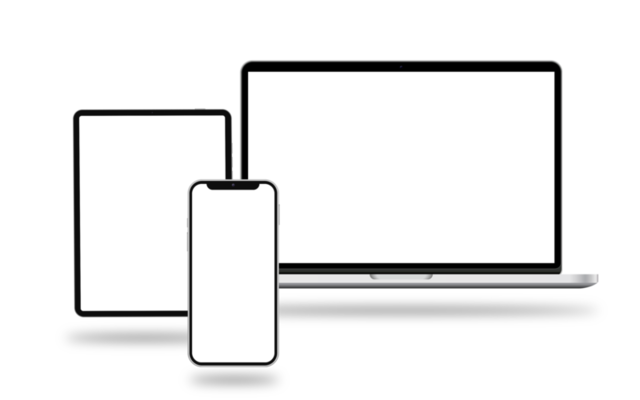
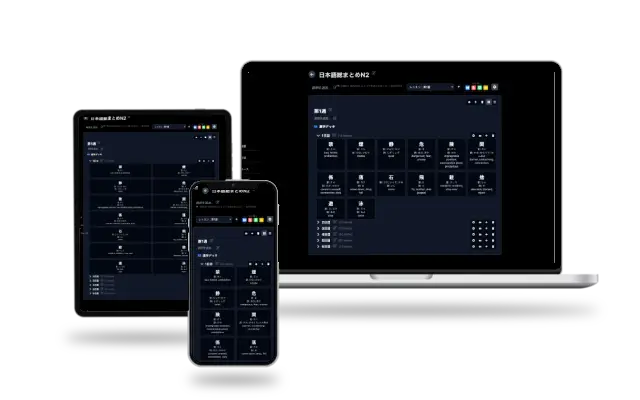
Added images for Landing Page

diff --git a/src/pages/LandingPage/TeachersFeaturesSection.tsx b/src/pages/LandingPage/TeachersFeaturesSection.tsx
@@ -2,17 +2,23 @@ import React, { useState, useEffect } from 'react';
 import { motion } from 'framer-motion';
 import { FaChalkboardTeacher, FaCalendarAlt, FaFolderOpen, FaEdit, FaUsers } from 'react-icons/fa';
 import { SectionTemplate } from "./SectionTemplate";
-import missionImage from '../../assets/pc-mobile.webp';
 import LocSpan from "../../components/LocSpan";
 import {FaMessage} from "react-icons/fa6";
 
+import feature1 from '../../assets/landing/tool1.png';
+import feature2 from '../../assets/landing/tool2.jpg';
+import feature3 from '../../assets/landing/tool3.jpg';
+import feature4 from '../../assets/landing/tool4.jpg';
+import feature5 from '../../assets/landing/tool5.jpg';
+import feature6 from '../../assets/landing/tool6.jpg';
+
 const teacherFeatures = [
-    { icon: <FaChalkboardTeacher />, titleKey: 'landingPage.teacherFeaturesSection.featureTitle1', descriptionKey: 'landingPage.teacherFeaturesSection.featureDescription1' },
-    { icon: <FaCalendarAlt />, titleKey: 'landingPage.teacherFeaturesSection.featureTitle2', descriptionKey: 'landingPage.teacherFeaturesSection.featureDescription2' },
-    { icon: <FaFolderOpen />, titleKey: 'landingPage.teacherFeaturesSection.featureTitle3', descriptionKey: 'landingPage.teacherFeaturesSection.featureDescription3' },
-    { icon: <FaEdit />, titleKey: 'landingPage.teacherFeaturesSection.featureTitle4', descriptionKey: 'landingPage.teacherFeaturesSection.featureDescription4' },
-    { icon: <FaMessage />, titleKey: 'landingPage.teacherFeaturesSection.featureTitle5', descriptionKey: 'landingPage.teacherFeaturesSection.featureDescription5' },
-    { icon: <FaUsers />, titleKey: 'landingPage.teacherFeaturesSection.featureTitle6', descriptionKey: 'landingPage.teacherFeaturesSection.featureDescription6' },
+    { icon: <FaChalkboardTeacher />, titleKey: 'landingPage.teacherFeaturesSection.featureTitle1', descriptionKey: 'landingPage.teacherFeaturesSection.featureDescription1', image: feature1 },
+    { icon: <FaCalendarAlt />, titleKey: 'landingPage.teacherFeaturesSection.featureTitle2', descriptionKey: 'landingPage.teacherFeaturesSection.featureDescription2', image: feature2 },
+    { icon: <FaFolderOpen />, titleKey: 'landingPage.teacherFeaturesSection.featureTitle3', descriptionKey: 'landingPage.teacherFeaturesSection.featureDescription3', image: feature3 },
+    { icon: <FaEdit />, titleKey: 'landingPage.teacherFeaturesSection.featureTitle4', descriptionKey: 'landingPage.teacherFeaturesSection.featureDescription4', image: feature4 },
+    { icon: <FaMessage />, titleKey: 'landingPage.teacherFeaturesSection.featureTitle5', descriptionKey: 'landingPage.teacherFeaturesSection.featureDescription5', image: feature5 },
+    { icon: <FaUsers />, titleKey: 'landingPage.teacherFeaturesSection.featureTitle6', descriptionKey: 'landingPage.teacherFeaturesSection.featureDescription6', image: feature6 },
 ];
 
 const TeacherFeaturesSection: React.FC<{id: string}> = ({id}) => {
@@ -84,13 +90,13 @@ const TeacherFeaturesSection: React.FC<{id: string}> = ({id}) => {
                 ))}
             </div>
 
-            <div className="md:w-1/2 flex items-center justify-center mt-10 md:mt-0">
+            <div className="md:w-2/3 flex items-center justify-center mt-10 md:mt-0">
                 {selectedFeature ? (
                     <SectionTemplate className={'h-full'}>
                         <h3 className="text-2xl font-bold text-white">
                             <LocSpan textKey={selectedFeature} />
                         </h3>
-                        <img src={missionImage} alt={selectedFeature} />
+                        <img src={teacherFeatures[currentIndex].image} alt={selectedFeature} />
                     </SectionTemplate>
                 ) : (
                     <motion.div

diff --git a/src/pages/StudyGroups/StudyGroupChatTab.tsx b/src/pages/StudyGroups/StudyGroupChatTab.tsx
@@ -15,7 +15,7 @@ interface StudyGroupChatProps {
     role: MembershipRole;
 }
 
-const StudyGroupChat: React.FC<StudyGroupChatProps> = ({ studyGroup, canEdit, role }) => {
+const StudyGroupChat: React.FC<StudyGroupChatProps> = ({ studyGroup, role }) => {
     const [newMessage, setNewMessage] = useState<string>('');
     const [page, setPage] = useState<number>(1);  
     const [maxPage, setMaxPage] = useState<number>(1);  
@@ -153,14 +153,14 @@ const StudyGroupChat: React.FC<StudyGroupChatProps> = ({ studyGroup, canEdit, ro
                     onKeyPress={handleKeyPress}
                     className="input-field"
                     placeholder={t("institution.chatKeys.writeMessage")}
-                    disabled={!canEdit || isSending}
+                    disabled={isSending}
                 />
                 <PrimaryButton
                     onClick={handleSendMessage}
                     label="institution.chatKeys.send"
                     iconComponent={<FaPaperPlane />}
                     className="ml-2"
-                    disabled={!canEdit || isSending || newMessage.trim() === ''}
+                    disabled={isSending || newMessage.trim() === ''}
                 />
             </div>
         </div>

diff --git a/src/pages/StudyGroups/StudyGroupSettingsTab.tsx b/src/pages/StudyGroups/StudyGroupSettingsTab.tsx
@@ -78,8 +78,6 @@ const StudyGroupSettings: React.FC<StudyGroupSettingsProps> = ({ studyGroup, can
                 </div>
             </div>
 
-
-            {/* Date Inputs */}
             <div className="flex flex-col items-start w-full max-w-3xl mt-4">
                 <h3 className="text-lg font-semibold mb-2"><LocSpan textKey={"institution.studyGroupKeys.courseDates"} /></h3>
                 <div className="grid grid-cols-2 gap-4">
